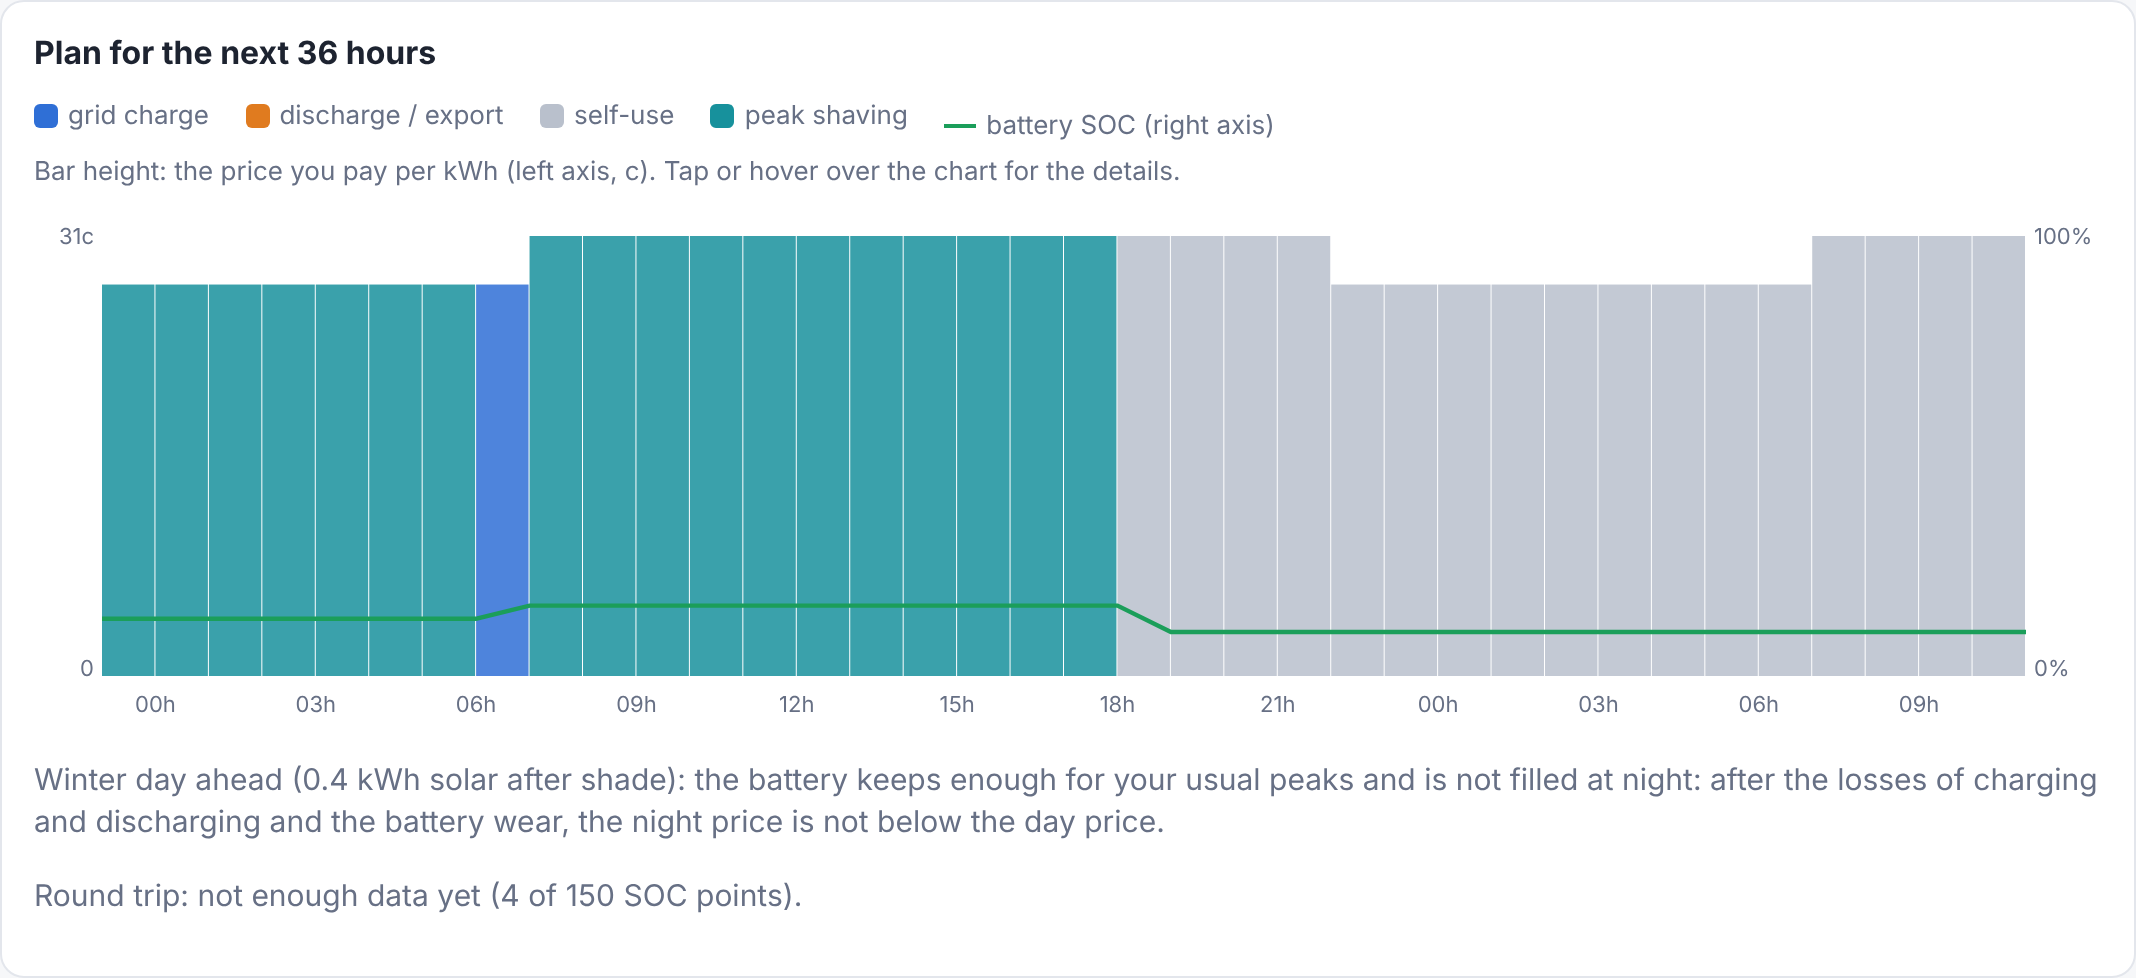
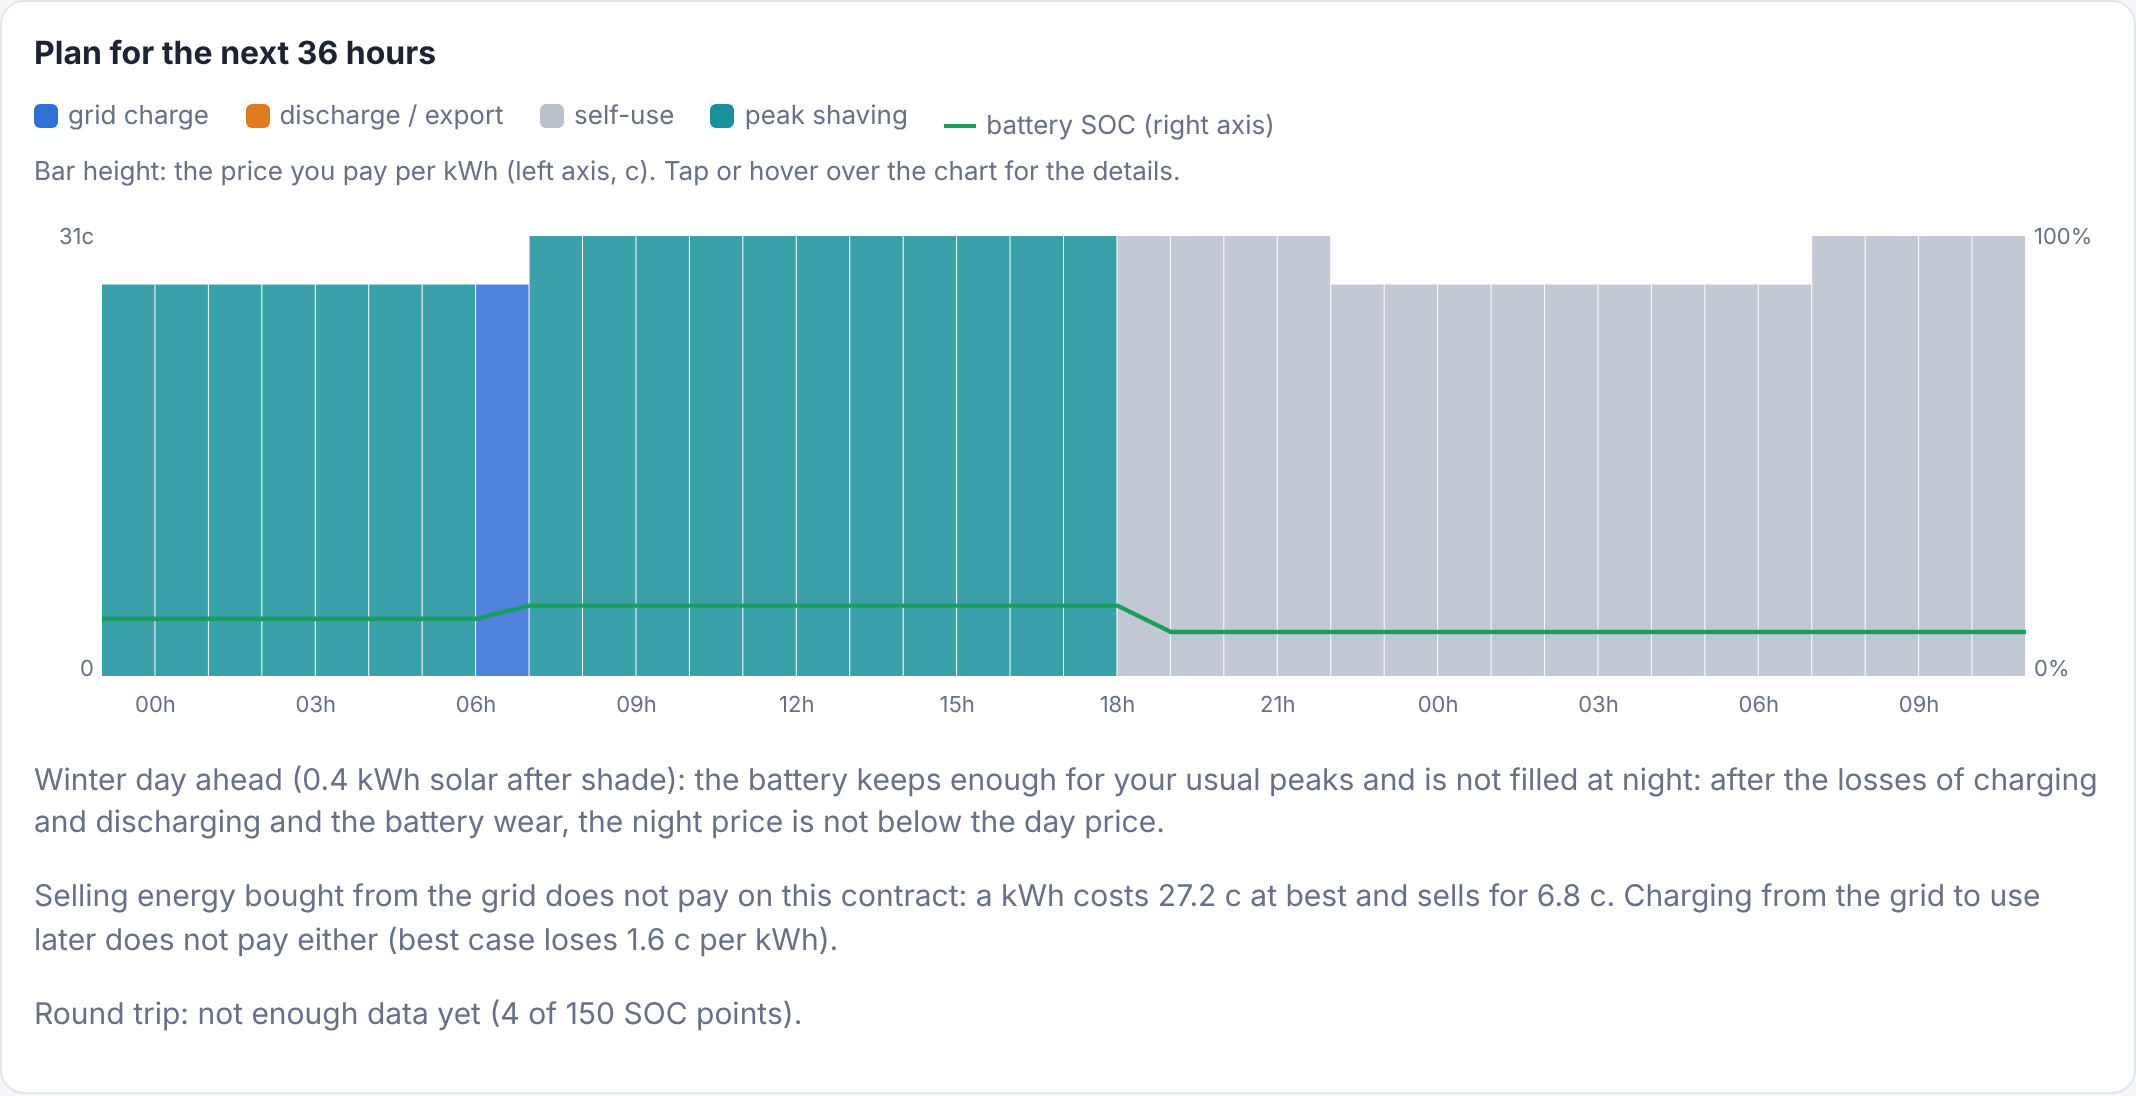
2.7.0: show on the page what trading with the grid would earn
The plan card shows the best buy-then-sell pair and the best
buy-to-avoid-buying pair of the next 24 hours with the contract's own
rates, per kWh bought, after conversion loss and wear, and the selling
price from which a trade would pay. Display only: the plan is unchanged.

Claude-Session: https://claude.ai/code/session_011Ws6kBiSsqmwookXntsC3Z

diff --git a/battery_pilot/pilot/static/index.html b/battery_pilot/pilot/static/index.html
@@ -114,6 +114,7 @@
     <p class="hint">Bar height: the price you pay per kWh (left axis, c). Tap or hover over the chart for the details.</p>
     <div class="hchart" id="plan"></div>
     <p class="muted" id="plannote"></p>
+    <p class="muted" id="tradenote"></p>
     <p class="muted" id="effnote"></p>
   </div>
 
@@ -370,6 +371,26 @@ function planExtras(plan) {
   if (hold) out.push(`From ${hm(hold.start)} the solar surplus is exported and not stored (solar hold): ` +
     "the battery keeps its room for hours in which surplus cannot be sold.");
   return out.join(" ");
+}
+
+// Why the plan trades with the grid, or not: the best pair of hours with this contract's prices.
+function tradeNote(t) {
+  if (!t || !t.trade || !t.shift) return "";
+  const c = (v) => fmt(Math.abs(v), 1) + " c", tr = t.trade, sh = t.shift;
+  const pair = `buying at ${hm(tr.buy_at)} (${c(tr.buy_c)}) and selling at ${hm(tr.at)} (${c(tr.price_c)})`;
+  const from = `Selling pays from ${c(tr.needed_sell_c)}` +
+    (tr.needed_market_eur_mwh != null ? ` (market ${tr.needed_market_eur_mwh} €/MWh).` : ".");
+  const trade = tr.needed_market_eur_mwh == null && tr.margin_c <= 0      // fixed prices: the same every day
+    ? `Selling energy bought from the grid does not pay on this contract: a kWh costs ${c(tr.buy_c)} at best ` +
+      `and sells for ${c(tr.price_c)}.`
+    : tr.margin_c > 0
+    ? `Trading with the grid pays in the next 24 hours: ${pair} earns ${c(tr.margin_c)} per kWh bought.`
+    : `Trading with the grid does not pay in the next 24 hours: ${pair} loses ${c(tr.margin_c)} per kWh bought, ` +
+      `after ${100 - t.round_trip_pct} % conversion loss and ${c(t.wear_c_kwh)} battery wear. ${from}`;
+  const shift = sh.margin_c > 0
+    ? `Charging at ${hm(sh.buy_at)} (${c(sh.buy_c)}) to avoid buying at ${hm(sh.at)} (${c(sh.price_c)}) saves ${c(sh.margin_c)} per kWh.`
+    : `Charging from the grid to use later does not pay either (best case loses ${c(sh.margin_c)} per kWh).`;
+  return trade + " " + shift;
 }
 
 function efficiencyNote(e) {
@@ -916,6 +937,7 @@ let render = function (s) {
   $("shaveleg").hidden = !(s.plan && s.plan.steps.some(x => x.action === "peak_shave"));
   $("holdleg").hidden = !(s.plan && s.plan.steps.some(x => x.action === "solar_hold"));
   $("effnote").textContent = efficiencyNote(s.efficiency);
+  $("tradenote").textContent = tradeNote((s.trading || {})[s.contract]);
   const t = s.plan && s.plan.targets && s.plan.targets[0];
   const note = !t || t.forecast === false ? "" : !t.winter
     ? `Enough sun ahead (${t.solar_kwh} kWh after shade): no winter night charging.`

diff --git a/tests/test_trading.py b/tests/test_trading.py
@@ -1,0 +1,103 @@
+"""What trading with the battery would earn (the line on the page), against the contract's own prices."""
+from datetime import date, datetime, timedelta, timezone
+
+import pytest
+from fake_ha import CHEAP_NIGHT, TZ, FakeHA, utc
+
+from pilot.app import App
+from pilot.config import Options
+from pilot.prices import PriceSlot
+from pilot.trading import margins
+
+NOW = datetime(2026, 6, 15, 10, tzinfo=timezone.utc)        # noon in Brussels
+
+
+def market(prices: dict[int, float], base: float = 80.0, minutes: int = 60, hours: int = 24) -> list[PriceSlot]:
+    """Market prices from NOW: `base`, except the slots in `prices` (slot number -> EUR/MWh)."""
+    step = timedelta(minutes=minutes)
+    return [PriceSlot(NOW + i * step, NOW + (i + 1) * step, prices.get(i, base)) for i in range(hours * 60 // minutes)]
+
+
+def dyn(prices, **kw):
+    return margins(Options(), "dynamic", market(prices, **kw), NOW, TZ, 80.0)
+
+
+def test_a_trade_breaks_even_only_at_a_high_selling_price():
+    """Default rates: bought at a market price of 0, a kWh must be sold near 180 EUR/MWh: the grid
+    fees sit on the purchase, a tenth is lost and the battery wears."""
+    even = dyn({2: 0.0, 9: 180.0})["trade"]
+    assert even["margin_c"] == pytest.approx(0.0, abs=0.2)
+    assert even["needed_market_eur_mwh"] == pytest.approx(180, abs=2)
+    assert even["buy_c"] == pytest.approx(13.02, abs=0.01) and even["needed_sell_c"] == pytest.approx(16.6, abs=0.1)
+    assert dyn({2: 0.0, 9: 100.0})["trade"]["margin_c"] < -5
+    assert dyn({2: 0.0, 9: 250.0})["trade"]["margin_c"] > 5
+    neg = dyn({2: -50.0, 9: 100.0})["trade"]                 # a negative price lowers the bar, not enough
+    assert neg["needed_market_eur_mwh"] == pytest.approx(120, abs=3) and neg["margin_c"] < 0
+
+
+def test_the_sale_comes_after_the_purchase():
+    t = dyn({0: 300.0, 9: 0.0})["trade"]                      # dear first, cheap later: no trade in that order
+    assert datetime.fromisoformat(t["buy_at"]) < datetime.fromisoformat(t["at"])
+    assert t["margin_c"] < 0
+    t = dyn({2: 0.0, 9: 300.0})["trade"]
+    assert datetime.fromisoformat(t["buy_at"]) == NOW + timedelta(hours=2)
+    assert datetime.fromisoformat(t["at"]) == NOW + timedelta(hours=9)
+
+
+def test_shifting_needs_a_much_smaller_spread_than_trading():
+    m = dyn({2: 40.0, 9: 110.0})                              # 70 EUR/MWh apart
+    assert m["shift"]["margin_c"] > 2 and m["trade"]["margin_c"] < 0
+    flat = dyn({})
+    assert flat["shift"]["margin_c"] < 0                      # same price all day: only the losses
+
+
+def test_quarter_hour_prices_are_used_as_they_are():
+    m = dyn({9: 0.0, 38: 300.0}, minutes=15)
+    assert datetime.fromisoformat(m["trade"]["buy_at"]) == NOW + timedelta(minutes=135)
+    assert datetime.fromisoformat(m["trade"]["at"]) == NOW + timedelta(minutes=570)
+    assert m["trade"]["margin_c"] > 5
+
+
+def test_a_fixed_contract_never_trades_and_shifts_only_with_a_cheap_night():
+    m = margins(Options(), "fixed", [], NOW, TZ, 80.0)
+    assert m["trade"]["margin_c"] < -15 and "needed_market_eur_mwh" not in m["trade"]
+    assert m["shift"]["margin_c"] < 0                         # default day/night rates: as `night_charge_pays`
+    cheap = margins(Options(**CHEAP_NIGHT), "fixed", [], NOW, TZ, 80.0)
+    assert cheap["shift"]["margin_c"] > 0
+    assert datetime.fromisoformat(cheap["shift"]["buy_at"]).astimezone(TZ).hour == 22
+
+
+def test_no_prices_no_answer_for_the_dynamic_contract():
+    assert margins(Options(), "dynamic", [], NOW, TZ, None) is None
+    assert margins(Options(), "dynamic", market({}, hours=1), NOW + timedelta(minutes=30), TZ, None) is None
+
+
+def test_the_plan_agrees_with_the_margin():
+    """Where the margin says a trade earns clearly, the plan charges from the grid and exports."""
+    from pilot.planner import make_plan
+    from pilot.tariffs import tariff
+    o = Options(contract="dynamic")
+
+    def plan(prices):
+        return make_plan(NOW, TZ, o, tariff("dynamic", o), market(prices, hours=36),
+                         lambda a, b: 0.3 * (b - a).total_seconds() / 3600, lambda a, b: 0.0, 40.0, market_avg=80.0)
+
+    rich = plan({2: 0.0, 3: 0.0, 9: 400.0})
+    assert dyn({2: 0.0, 3: 0.0, 9: 400.0})["trade"]["margin_c"] > 10
+    assert any(s.action == "charge" for s in rich.steps) and any(s.action == "discharge" for s in rich.steps)
+    poor = plan({2: 60.0, 9: 100.0})
+    assert dyn({2: 60.0, 9: 100.0})["trade"]["margin_c"] < 0
+    assert not any(s.action == "discharge" for s in poor.steps)
+
+
+async def test_the_app_reports_the_margin_for_both_contracts(tmp_path):
+    day = date(2026, 6, 15)
+    prices = [{"time": (datetime.combine(day, datetime.min.time(), TZ) + timedelta(hours=h)).isoformat(),
+               "price": 0.25 if h % 24 == 20 else 0.0 if h % 24 == 13 else 0.08} for h in range(72)]
+    fake = FakeHA(utc(2026, 6, 15, 8, 0), soc=50, prices=prices)
+    app = App(Options(contract="dynamic"), fake, data_dir=str(tmp_path / "data"), clock=lambda: fake.now)
+    assert await app.setup()
+    await app.step()
+    t = app.status()["trading"]
+    assert t["dynamic"]["trade"]["margin_c"] > 0 and t["fixed"]["trade"]["margin_c"] < 0
+    assert datetime.fromisoformat(t["dynamic"]["trade"]["buy_at"]).astimezone(TZ).hour == 13

diff --git a/battery_pilot/pilot/trading.py b/battery_pilot/pilot/trading.py
@@ -1,0 +1,72 @@
+"""What trading with the battery would earn in the next hours, for the page.
+
+The plan already buys in cheap hours and sells in dear ones when that pays. It rarely does: every
+bought kWh carries the grid fees, part of it is lost in the two conversions and the battery wears.
+`margins` shows the best pair of hours with the contract's own prices, so the page can say why
+the plan trades or does not. Display only: the plan decides with the same numbers in `planner`.
+"""
+from __future__ import annotations
+
+from datetime import datetime, timedelta
+from zoneinfo import ZoneInfo
+
+from .config import Options
+from .prices import PriceSlot
+from .simulate import Battery
+from .tariffs import tariff
+
+
+def _slots(o: Options, kind: str, price_slots: list[PriceSlot], now: datetime, tz: ZoneInfo,
+           market_avg: float | None, hours: int) -> list[tuple[datetime, float, float, float | None]]:
+    """(start, buy, sell, market) of each price period in the coming hours, in c/kWh."""
+    t = tariff(kind, o)
+    end = now + timedelta(hours=hours)
+    out = []
+    if kind == "dynamic":
+        for p in sorted(price_slots, key=lambda p: p.start):
+            if p.end > now and p.start < end:
+                local = max(p.start, now).astimezone(tz)
+                out.append((max(p.start, now), t.buy(local, p.eur_mwh), t.sell(local, p.eur_mwh, market_avg), p.eur_mwh))
+    else:
+        h = now.replace(minute=0, second=0, microsecond=0)
+        while h < end:
+            local = max(h, now).astimezone(tz)
+            out.append((max(h, now), t.buy(local, None), t.sell(local, None, market_avg), None))
+            h += timedelta(hours=1)
+    return out
+
+
+def margins(o: Options, kind: str, price_slots: list[PriceSlot], now: datetime, tz: ZoneInfo,
+            market_avg: float | None = None, hours: int = 24) -> dict | None:
+    """The best trade and the best shift in the coming hours, per kWh bought from the grid.
+
+    trade: buy a kWh, sell what is left of it later. shift: buy a kWh, use what is left of it in a
+    later hour instead of buying then. `margin_c` is what one bought kWh earns after the conversion
+    losses and battery wear (negative: it loses). None without prices for this contract."""
+    slots = _slots(o, kind, price_slots, now, tz, market_avg, hours)
+    if len(slots) < 2:
+        return None
+    b = Battery.from_options(o)
+    eta = b.eta_c * b.eta_d
+    wear = b.wear_c_kwh * b.eta_c            # wear is counted per kWh that leaves the battery cells
+    best: dict[str, tuple | None] = {"trade": None, "shift": None}
+    low = slots[0]                           # the cheapest purchase so far
+    for s in slots[1:]:
+        for name, price in (("trade", s[2]), ("shift", s[1])):
+            m = price * eta - wear - low[1]
+            if best[name] is None or m > best[name][0]:
+                best[name] = (m, low, s, price)
+        if s[1] < low[1]:
+            low = s
+    out: dict = {"round_trip_pct": round(eta * 100), "wear_c_kwh": b.wear_c_kwh}
+    for name, (m, buy, later, price) in best.items():
+        out[name] = {"margin_c": round(m, 2), "buy_at": buy[0].isoformat(), "buy_c": round(buy[1], 2),
+                     "at": later[0].isoformat(), "price_c": round(price, 2)}
+    # the sell price (and market price) from which the best purchase would break even
+    buy = best["trade"][1]
+    need = (buy[1] + wear) / eta
+    out["trade"]["needed_sell_c"] = round(need, 2)
+    if kind == "dynamic" and o.dynamic_sell_mult > 0:
+        out["trade"]["needed_market_eur_mwh"] = round(
+            (need + o.injection_fee_c_kwh - o.dynamic_sell_add) / o.dynamic_sell_mult)
+    return out

diff --git a/battery_pilot/pilot/app.py b/battery_pilot/pilot/app.py
@@ -12,6 +12,7 @@ from zoneinfo import ZoneInfo
 
 from . import history as H
 from . import prices as P
+from . import trading
 from .compare import KINDS, Comparison, day_records, replay_day
 from .config import Options
 from .controller import ACTIVE, Decision, Readings, decide
@@ -105,6 +106,7 @@ class App:
         self.curtailed_by_us = False      # we set the export limit to 0 (persisted)
         self.export_limit_before: float | None = None   # the export limit we found before blocking (persisted)
         self.peak_warned = ""
+        self.trading: dict = {}           # what trading would earn in the coming hours, per contract (display)
         self.boost_seen: dict = {}        # the boost window last announced in the events (persisted)
         self.over_since: datetime | None = None
         self.events: list[dict] = []
@@ -669,6 +671,8 @@ class App:
                               month_peak_kw=self.peaks.month_peak(now, self.tz), current_action=current,
                               peak_shave=self.can_peak_shave, solar_hold=self.can_solar_hold)
         self._log_plan(now)
+        avg = self.market_avg_month(now)
+        self.trading = {k: trading.margins(self.o, k, self.price_slots, now, self.tz, avg) for k in KINDS}
         boost, seen = self.plan.boost, self.boost_seen
         # The plan is redone every few minutes while a boost runs: announce a window once, unless
         # a new one starts after it or the level goes up clearly.
@@ -954,6 +958,7 @@ class App:
                                                       "log": list(reversed(self.solis.log[-20:]))},
             "plan": self.plan.to_json() if self.plan else None,
             "prices": self.current_prices(),
+            "trading": self.trading,
             "solar": {"today": round(self.pv.day_total(now.astimezone(self.tz).date()), 1),
                       "tomorrow": round(self.pv.day_total(now.astimezone(self.tz).date() + timedelta(days=1)), 1),
                       "today_factor": self.today_factor,

diff --git a/battery_pilot/DOCS.md b/battery_pilot/DOCS.md
@@ -27,6 +27,13 @@ What it does:
 - **Learns your tree shade.** It compares what your panels deliver with the forecast
   for every month and hour of the day. Low winter sun behind trees gets its own
   correction; summer noon keeps its own.
+- **Trades with the grid when it pays, and says why not.** Buying a kWh to sell it
+  later earns `sell price × round-trip efficiency − wear − buy price`. The grid fees are
+  on every kWh bought, so with the default rates a kWh bought at a market price of 0 must
+  be sold at about 180 €/MWh to break even. Buying cheap to avoid buying dear needs a much
+  smaller difference, about 33 €/MWh, but is limited to what the house uses. The plan
+  card shows the best pair of hours of the next 24 hours with your rates, and the selling
+  price from which trading would pay.
 - **Follows today's weather.** When the panels gave clearly less (or more) in the last
   three hours than the forecast after shade, the rest of today is planned lower (or
   higher). The correction fades over the following hours and never touches tomorrow.

diff --git a/battery_pilot/CHANGELOG.md b/battery_pilot/CHANGELOG.md
@@ -19,6 +19,13 @@
   the fixed contract stays at €947. With a forecast that is right about the day it changes
   nothing on fixed and costs €1 on dynamic. Other window lengths and half-lives gave the
   same result within €1.
+- **Why it trades, or not.** The plan card now shows the best trade of the next 24 hours
+  with your own rates: when to buy and sell, what one bought kWh earns or loses after the
+  conversion loss and battery wear, and the selling price from which it would pay. With
+  the default rates, a kWh bought at a market price of 0 must be sold at about 180 €/MWh
+  to break even, because the grid fees sit on every kWh bought. It also shows what
+  charging in the cheapest hour to avoid buying in the dearest one saves. The plan itself
+  is unchanged: it already made these trades when they pay.
 - Not new: the plan already keeps battery for your usual consumption peaks (the typical
   highest quarter-hour per weekday and hour), since 2.0.
 

diff --git a/CLAUDE.md b/CLAUDE.md
@@ -100,6 +100,9 @@ Once a night `nightly()` learns shade and load from yesterday's records and repl
   half-life, a value after 150 SOC points each way). `learn_records` is called from `App.nightly()`.
   Display only (`status["efficiency"]`, `sensor.battery_pilot_efficiency`): the plan keeps using
   `round_trip_efficiency_pct`.
+- `trading.margins()`: display only (`status["trading"]`, the `#tradenote` line in the plan card): the
+  best buy-then-sell pair and the best buy-to-avoid-buying pair of the next 24 h per contract, per kWh
+  bought, with the same efficiencies and wear as the planner. Computed in `App.replan`.
 - `compare.Comparison`: per-month "same usage" shadow bill + nightly `replay_day()` per contract
   (plans hourly with forecasts, simulates with measured load/PV, includes wear). Fees and capacity
   tariff are added in `report()`. Both contracts must cover the same hours: a month with market prices
